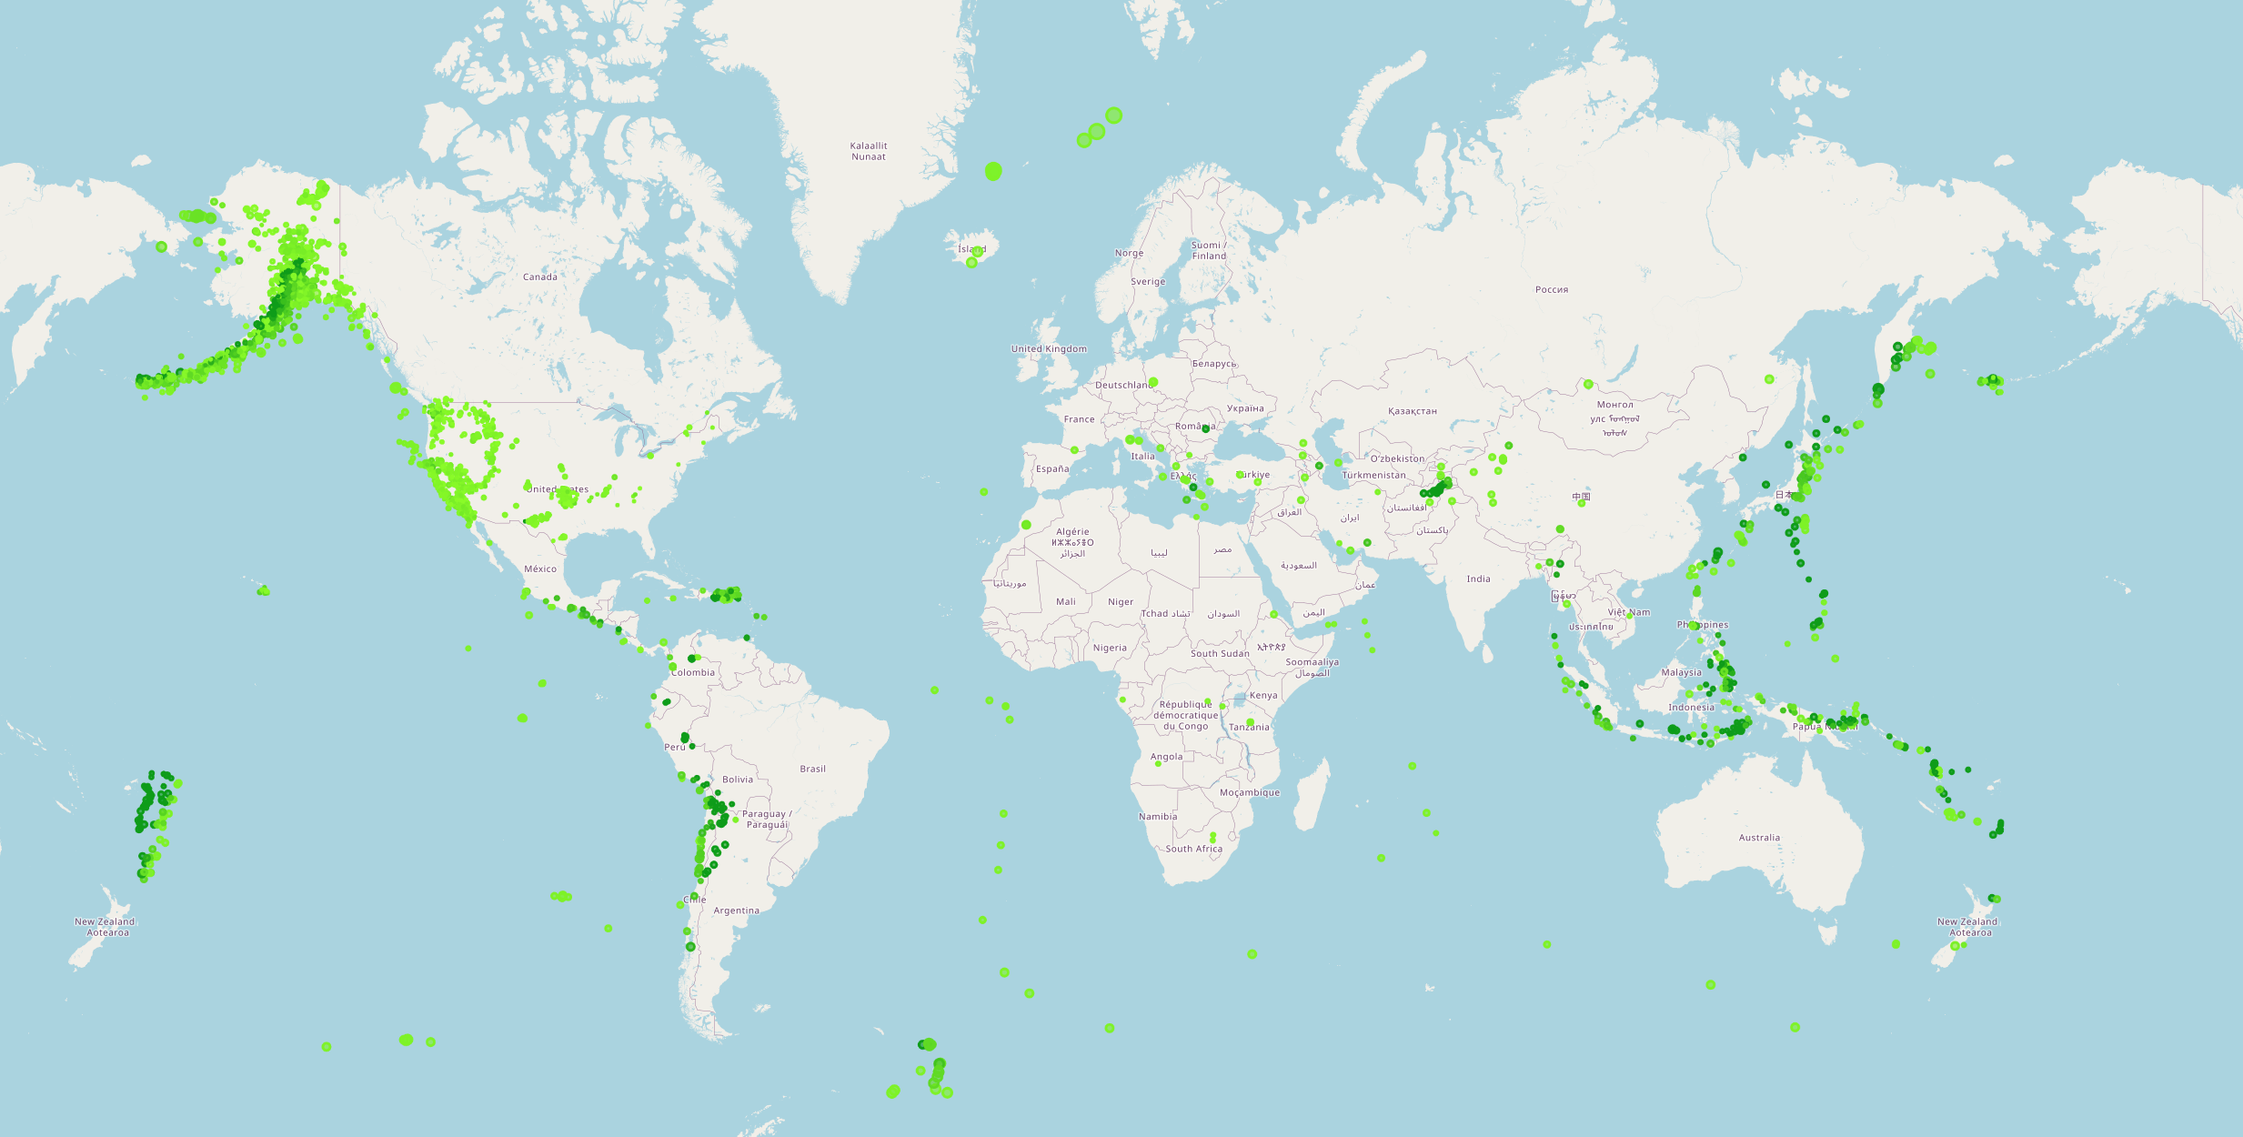
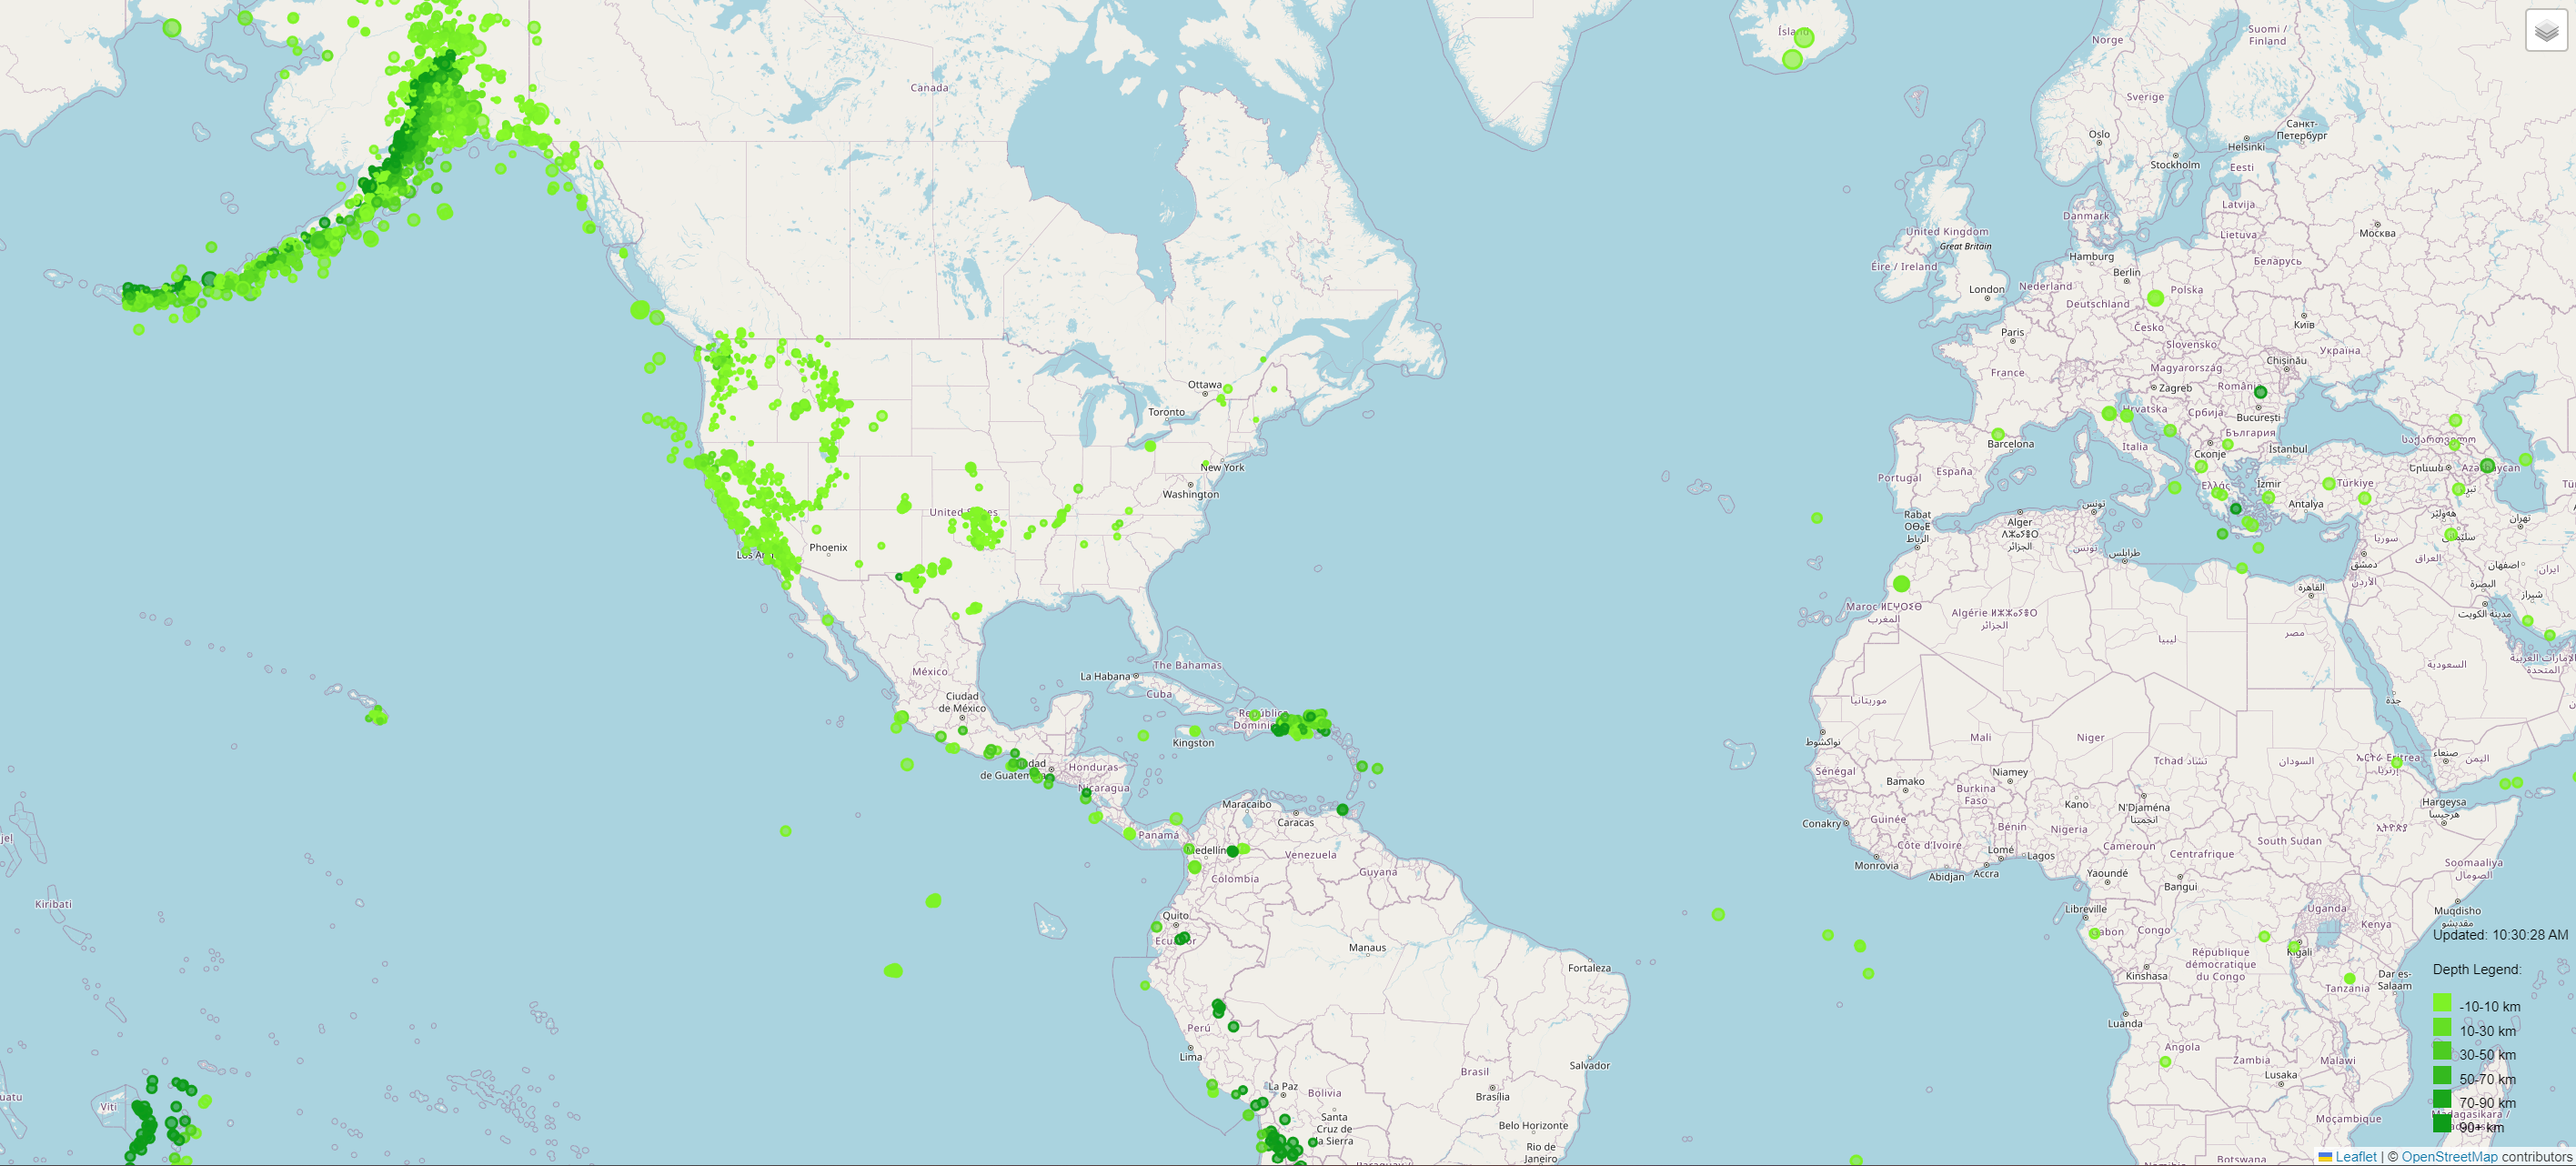
added the legend to the map

diff --git a/Leaflet-Part-1/static/js/logic.js b/Leaflet-Part-1/static/js/logic.js
@@ -86,9 +86,15 @@ function getColor(depth) {
 };
 
 // Update the legend's innerHTML with the last updated time and station count.
-function updateLegend(time, stationCount) {
+function updateLegend(time) {
     document.querySelector(".legend").innerHTML = [
-      "<p>Updated: " + moment.unix(time).format("h:mm:ss A") + "</p>",
-      "<p class='Color Shade: " + stationCount.earthQuake + "</p>",
+        "<p>Updated: " + moment.unix(time).format("h:mm:ss A") + "</p>",
+        "<p>Depth Legend:</p>",
+        "<div class='legend-item'><div class='legend-color' style='background:" + colorScale(10).hex() + "'></div> -10-10 km</div>",
+        "<div class='legend-item'><div class='legend-color' style='background:" + colorScale(30).hex() + "'></div> 10-30 km</div>",
+        "<div class='legend-item'><div class='legend-color' style='background:" + colorScale(50).hex() + "'></div> 30-50 km</div>",
+        "<div class='legend-item'><div class='legend-color' style='background:" + colorScale(70).hex() + "'></div> 50-70 km</div>",
+        "<div class='legend-item'><div class='legend-color' style='background:" + colorScale(90).hex() + "'></div> 70-90 km</div>",
+        "<div class='legend-item'><div class='legend-color' style='background:" + colorScale(100).hex() + "'></div> 90+ km</div>",
     ].join("");
 };

diff --git a/Leaflet-Part-1/static/css/style.css b/Leaflet-Part-1/static/css/style.css
@@ -8,3 +8,9 @@ body,
 html {
   height: 100%;
 }
+
+.legend-color {
+  width: 20px;
+  height: 20px;
+  display: inline-block;
+  margin-right: 5px;
